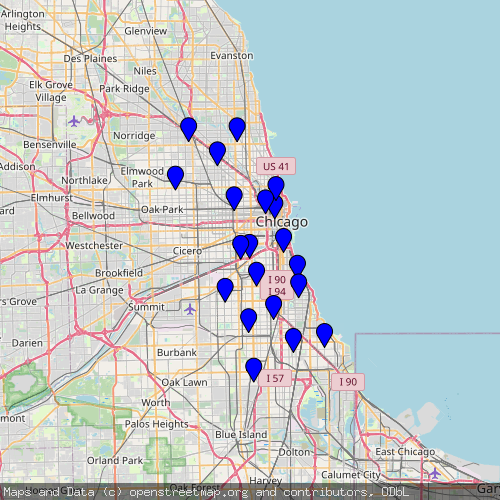
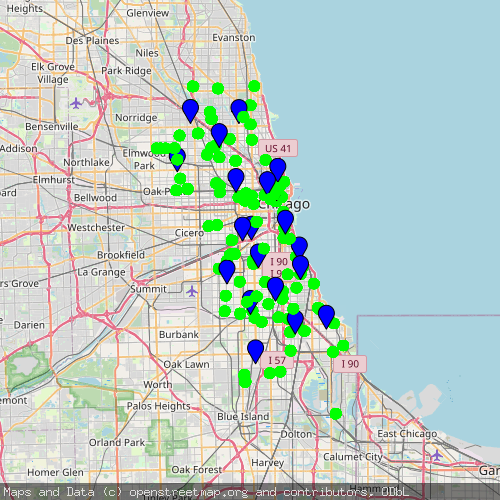
update map

diff --git a/main.go b/main.go
@@ -93,14 +93,7 @@ func main() {
 					for j := 0; j < len(diffB); j++ {
 						clusters[sortcd[i].cl].Observations = append(clusters[sortcd[i].cl].Observations, diffB[j])
 					}
-					// } else {
-					// 	for j := 0; j < len(diffB); j++ {
-					// 		clusters[sortcd[0].cl].Observations = append(clusters[sortcd[0].cl].Observations, diffB[j].data)
-					// 	}
 				}
-				// for j := 0; j < len(diffB); j++ {
-				// 	clusters[B].Observations = append(clusters[B].Observations, diffB[j].data)
-				// }
 			}
 			clusters.Recenter()
 		}
@@ -143,6 +136,17 @@ func main() {
 	ctx := sm.NewContext()
 	ctx.SetSize(500, 500)
 	for _, c := range clusters {
+		for _, p := range c.Observations {
+			ctx.AddObject(
+				sm.NewCircle(
+					s2.LatLngFromDegrees(p.Coordinates().Coordinates()[1], p.Coordinates().Coordinates()[0]),
+					color.RGBA{0, 0xff, 0, 0xff},
+					color.RGBA{0, 0x0f, 0, 0xff},
+					80.0,
+					10.0,
+				),
+			)
+		}
 		ctx.AddObject(
 			sm.NewMarker(
 				s2.LatLngFromDegrees(c.Center[1], c.Center[0]),
@@ -151,6 +155,7 @@ func main() {
 			),
 		)
 	}
+
 	img, err := ctx.Render()
 	if err != nil {
 		panic(err)
@@ -205,4 +210,31 @@ func MinMax(array []int) (int, int) {
 		}
 	}
 	return min, max
+}
+
+type RGBA struct {
+	R, G, B, A uint8
+}
+
+var colour = []RGBA{
+	{0xf9, 0x26, 0x72, 0xff},
+	{0x89, 0xbd, 0xff, 0xff},
+	{0x66, 0xd9, 0xef, 0xff},
+	{0x67, 0x21, 0x0c, 0xff},
+	{0x7a, 0xcd, 0x10, 0xff},
+	{0xaf, 0x61, 0x9f, 0xff},
+	{0xfd, 0x97, 0x1f, 0xff},
+	{0xdc, 0xc0, 0x60, 0xff},
+	{0x54, 0x52, 0x50, 0xff},
+	{0x4b, 0x75, 0x09, 0xff},
+	{0xff, 0x00, 0xff, 0xff},
+	{0xff, 0x23, 0x54, 0xff},
+	{0x45, 0x2c, 0x1a, 0xff},
+	{0x22, 0x4f, 0x42, 0xff},
+	{0x7a, 0xab, 0x23, 0xff},
+	{0xaf, 0x00, 0x2f, 0xff},
+	{0xfd, 0x09, 0x3c, 0xff},
+	{0xdc, 0x88, 0xf9, 0xff},
+	{0x54, 0x92, 0x6e, 0xff},
+	{0xc3, 0x21, 0x01, 0xff},
 }

diff --git a/borderadjust.go b/borderadjust.go
@@ -20,7 +20,6 @@ func (c Clusters) borderadjust(A int, B int) (Observations, Observations) {
 	var obsB Observations
 
 	for _, p := range c[A].Observations {
-
 		distA := p.Distance(c[A].Center)
 		distB := p.Distance(c[B].Center)
 
